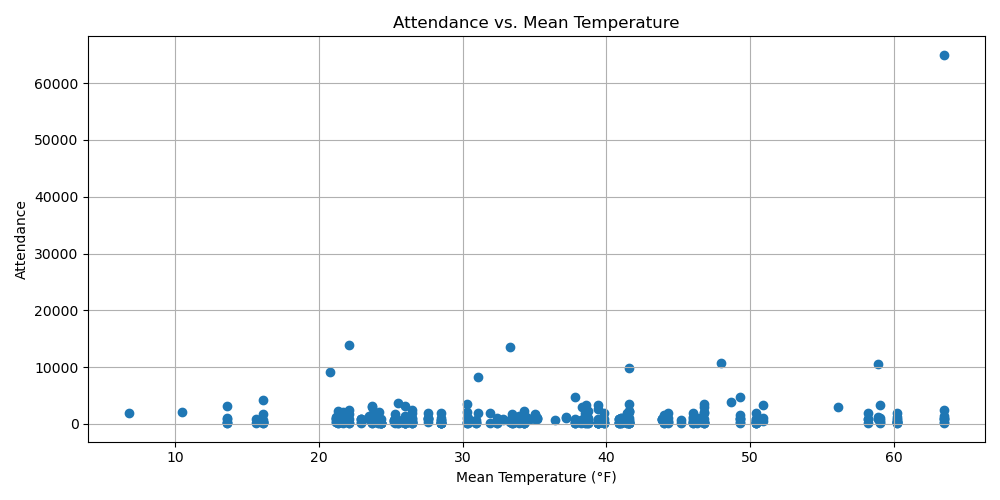
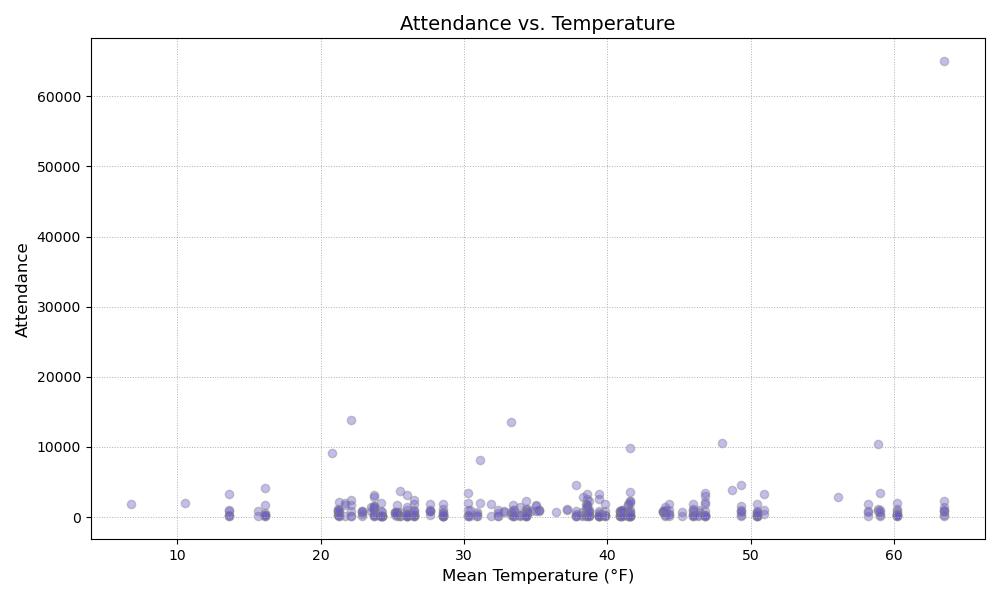
work

diff --git a/datavis.py b/datavis.py
@@ -16,39 +16,44 @@ query = '''
 '''
 cur.execute(query)
 rows = cur.fetchall()
-
-# Close DB connection
 conn.close()
 
-# Split into x and y values
+# Data prep
 attendance = [row[0] for row in rows]
 temp_mean = [row[1] for row in rows]
 precipitation = [row[2] for row in rows]
 
-# --- Visualization 1: Attendance vs. Temperature ---
-plt.figure(figsize=(10, 5))
-plt.scatter(temp_mean, attendance)
-plt.title('Attendance vs. Mean Temperature')
-plt.xlabel('Mean Temperature (°F)')
-plt.ylabel('Attendance')
-plt.grid(True)
+# --- Vis 1: Scatter plot showing no strong correlation (Attendance vs Temp) ---
+plt.figure(figsize=(10, 6))
+plt.scatter(temp_mean, attendance, alpha=0.4, edgecolor='gray', color='slateblue')
+
+# OPTIONAL: comment this out to remove the trendline
+# z = np.polyfit(temp_mean, attendance, 1)
+# p = np.poly1d(z)
+# plt.plot(temp_mean, p(temp_mean), linestyle='--', linewidth=2, color='gray')
+
+plt.title('Attendance vs. Temperature', fontsize=14)
+plt.xlabel('Mean Temperature (°F)', fontsize=12)
+plt.ylabel('Attendance', fontsize=12)
+plt.grid(True, linestyle=':', linewidth=0.7)
 plt.tight_layout()
-plt.savefig('attendance_vs_temp.png')  
+plt.savefig('attendance_vs_temp.png')
 plt.show()
 
-# --- Visualization 2: Attendance vs. Precipitation ---
-plt.figure(figsize=(10, 5))
-plt.scatter(precipitation, attendance)
-plt.title('Attendance vs. Precipitation')
-plt.xlabel('Precipitation (inches)')
-plt.ylabel('Attendance')
-plt.grid(True)
+# --- Vis 2: Bubble plot (Precipitation vs Attendance) ---
+plt.figure(figsize=(10, 6))
+bubble_size = [p * 150 for p in precipitation]  # scale precipitation to size
+plt.scatter(precipitation, attendance, s=bubble_size, alpha=0.5, c='teal', edgecolor='gray')
+
+plt.title('Attendance vs. Precipitation (Bubble Size = Precip)', fontsize=14)
+plt.xlabel('Precipitation (inches)', fontsize=12)
+plt.ylabel('Attendance', fontsize=12)
+plt.grid(True, linestyle='--', alpha=0.5)
 plt.tight_layout()
-plt.savefig('attendance_vs_precip.png')  
+plt.savefig('bubble_attendance_vs_precip.png')
 plt.show()
 
-# --- Visualization 3: Avg Attendance by Temp Range (Bar Chart) ---
-# Group temp into bins
+# --- Vis 3: Horizontal Bar (Average Attendance by Temp Range) ---
 temp_bins = {
     'Cold (≤40°F)': [],
     'Cool (41–55°F)': [],
@@ -56,7 +61,6 @@ temp_bins = {
     'Warm (71–85°F)': [],
     'Hot (>85°F)': []
 }
-
 for att, temp in zip(attendance, temp_mean):
     if temp <= 40:
         temp_bins['Cold (≤40°F)'].append(att)
@@ -69,18 +73,19 @@ for att, temp in zip(attendance, temp_mean):
     else:
         temp_bins['Hot (>85°F)'].append(att)
 
-# Calculate averages [had chatgpt help me understand how to do this part]
 categories = list(temp_bins.keys())
 averages = [np.mean(temp_bins[cat]) if temp_bins[cat] else 0 for cat in categories]
 
-# Plot bar chart
 plt.figure(figsize=(10, 6))
-plt.bar(categories, averages)
-plt.title('Average Attendance by Temperature Range')
-plt.xlabel('Temperature Range')
-plt.ylabel('Average Attendance')
-plt.xticks(rotation=30)
+bars = plt.barh(categories, averages, color='coral', edgecolor='black')
+plt.title('Avg Attendance by Temperature Range', fontsize=14)
+plt.xlabel('Average Attendance', fontsize=12)
+plt.gca().invert_yaxis()  # highest temp range at bottom
+for bar in bars:
+    width = bar.get_width()
+    plt.text(width + 50, bar.get_y() + bar.get_height()/2, f'{int(width)}', va='center')
 plt.tight_layout()
-plt.savefig('avg_attendance_by_temp_range.png')
+plt.savefig('horizontal_bar_avg_attendance.png')
 plt.show()
+
 
